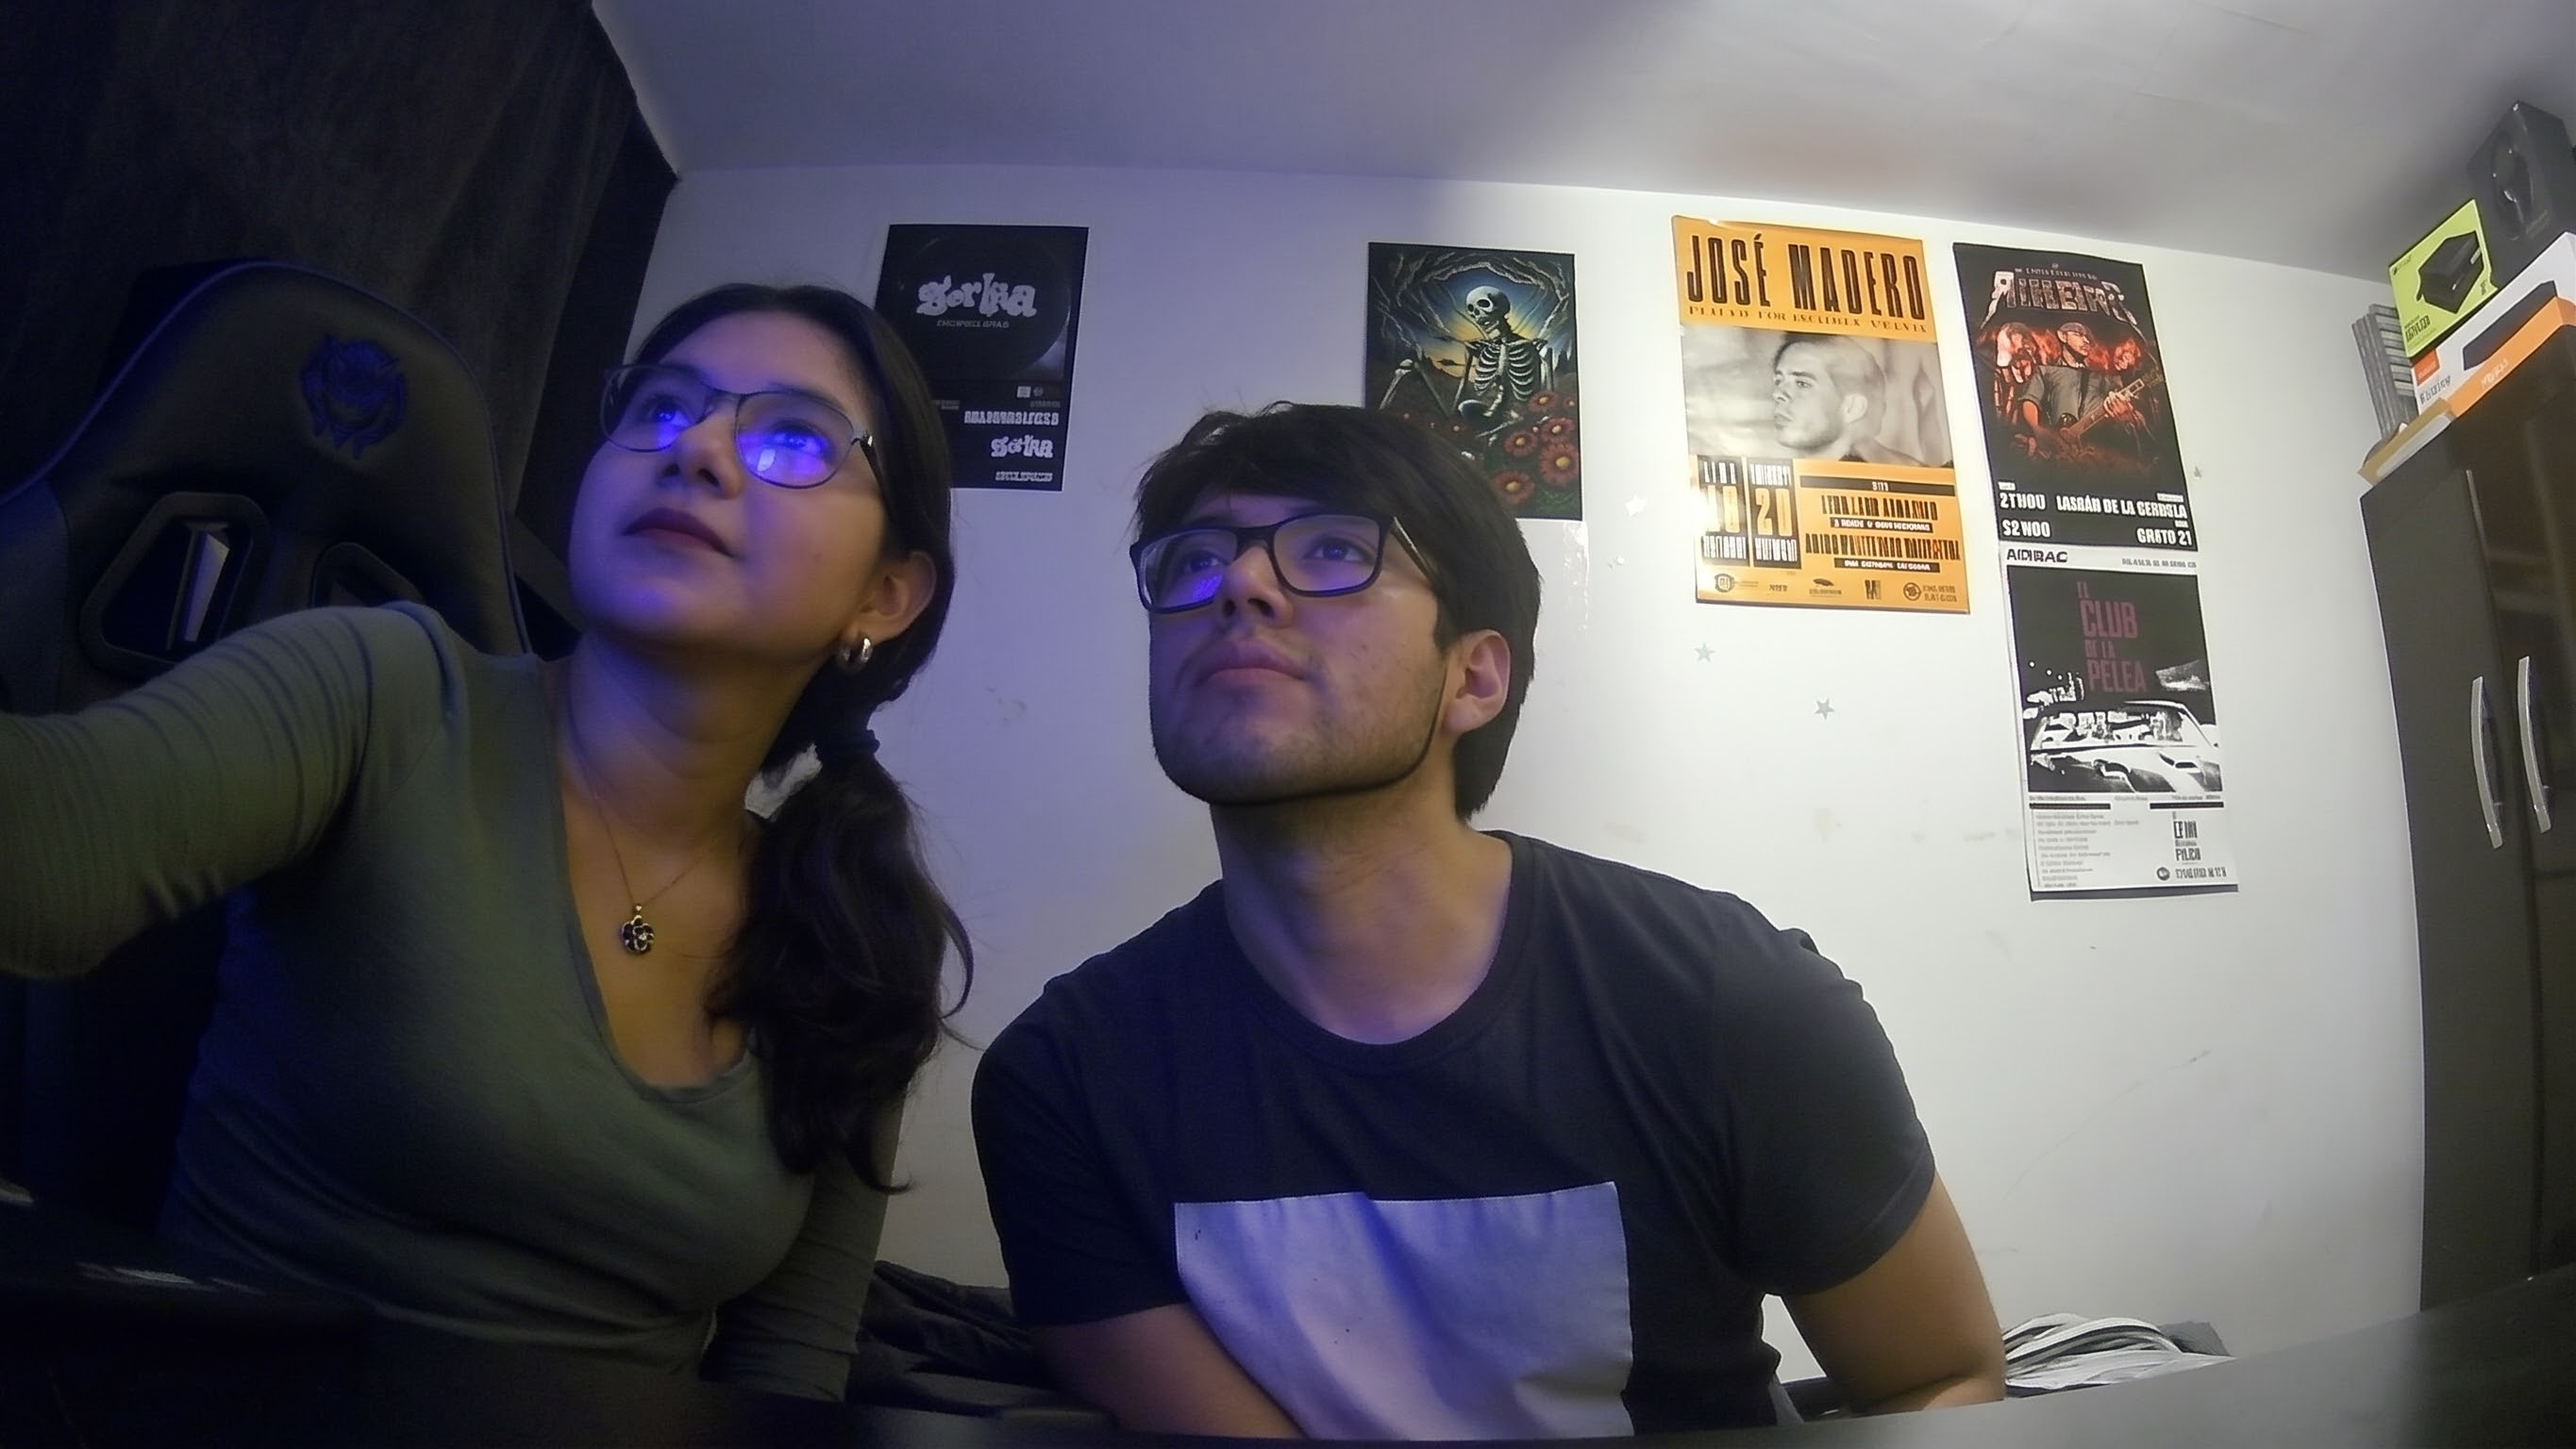
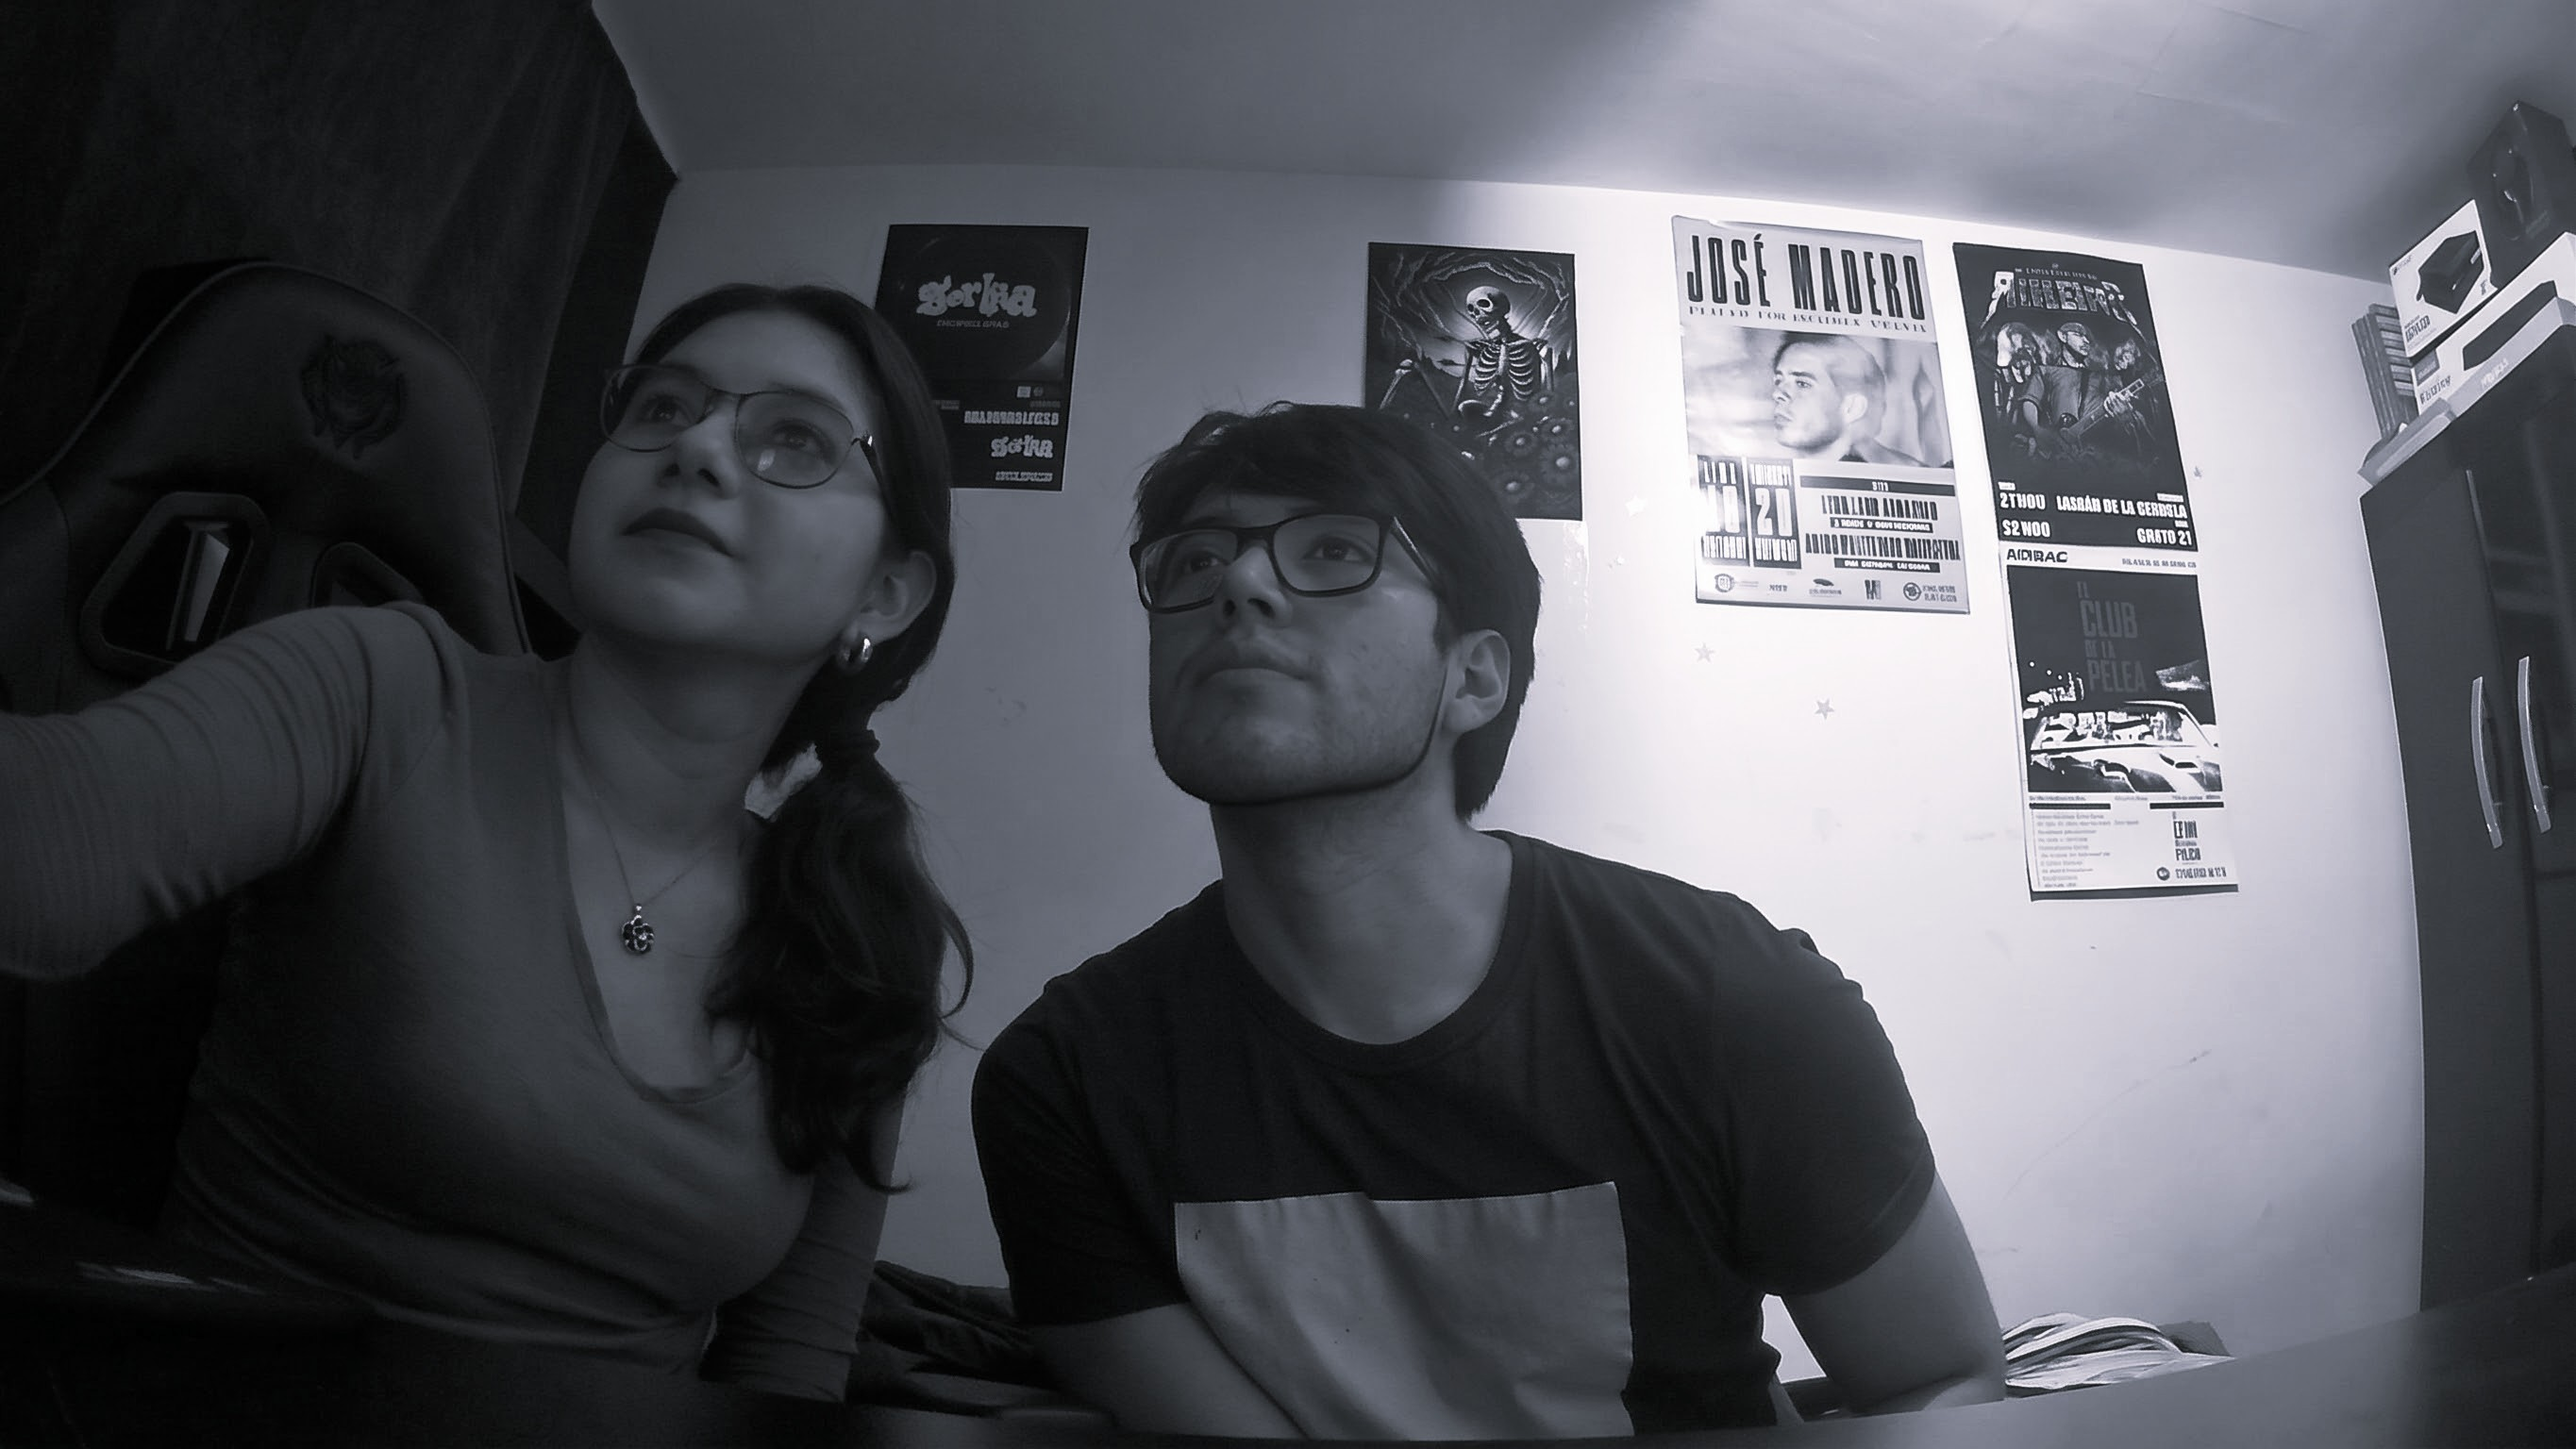
Adios Silvana

diff --git a/mensajes.html b/mensajes.html
@@ -251,17 +251,19 @@
 
       function mostrarVisto() {
         vistoEl.remove();
-        if (!lecturas || nombreInput.value !== "Rodrigo") {
+        if (!lecturas) {
           return;
         }
-        const lecturaSilvana = lecturas.Silvana;
-        if (!lecturaSilvana || !lecturaSilvana.hasta) {
+        const yo = nombreInput.value;
+        const otro = yo === "Silvana" ? "Rodrigo" : "Silvana";
+        const lecturaOtro = lecturas[otro];
+        if (!lecturaOtro || !lecturaOtro.hasta) {
           return;
         }
-        const { hasta, cuando } = lecturaSilvana;
+        const { hasta, cuando } = lecturaOtro;
         for (let i = registrosMensajes.length - 1; i >= 0; i--) {
           const registro = registrosMensajes[i];
-          if (registro.nombre === "Rodrigo" && registro.ts && registro.ts <= hasta) {
+          if (registro.nombre === yo && registro.ts && registro.ts <= hasta) {
             const hoy = claveDia(Date.now()) === claveDia(cuando || hasta);
             const momento = hoy ? formatearHora(cuando || hasta) : `${etiquetaDia(cuando || hasta)} ${formatearHora(cuando || hasta)}`;
             vistoEl.textContent = ` · Visto ${momento}`;
@@ -629,8 +631,8 @@
       font-family: 'Oswald', 'Segoe UI', sans-serif;
       color: #fff;
       background:
-        linear-gradient(rgba(20, 5, 15, 0.82), rgba(35, 8, 30, 0.9)),
-        url("img/fondo.jpg") no-repeat center center fixed;
+        linear-gradient(rgba(0, 0, 0, 0.38), rgba(0, 0, 0, 0.52)),
+        url("img/AdiosJuntos.jpg") no-repeat center center fixed;
       background-size: cover;
       overflow: hidden;
     }
@@ -642,9 +644,9 @@
       flex-direction: column;
       align-items: center;
       padding: 10px 16px 8px;
-      background: rgba(30, 8, 25, 0.75);
+      background: rgba(0, 0, 0, 0.68);
       backdrop-filter: blur(8px);
-      border-bottom: 1px solid rgba(255, 158, 187, 0.25);
+      border-bottom: 1px solid rgba(255, 255, 255, 0.16);
       box-shadow: 0 4px 18px rgba(0, 0, 0, 0.35);
       z-index: 2;
     }
@@ -655,7 +657,7 @@
       font-weight: 400;
       font-size: 2.2rem;
       line-height: 1.1;
-      background: linear-gradient(90deg, #ff9ebb, #ff4d6d);
+      background: linear-gradient(90deg, #ffffff, #bdbdbd);
       -webkit-background-clip: text;
       background-clip: text;
       color: transparent;
@@ -667,7 +669,7 @@
       gap: 10px;
       font-size: 0.85rem;
       font-weight: 300;
-      color: #ffc2d1;
+      color: #d9d9d9;
     }
 
     .avatar {
@@ -695,17 +697,17 @@
     }
 
     #chat-box::-webkit-scrollbar { width: 6px; }
-    #chat-box::-webkit-scrollbar-thumb { background: rgba(255, 77, 109, 0.6); border-radius: 6px; }
+    #chat-box::-webkit-scrollbar-thumb { background: rgba(255, 255, 255, 0.35); border-radius: 6px; }
 
     #cargar-anteriores {
       align-self: center;
       flex: none;
       margin: 0 0 8px;
       padding: 7px 16px;
-      border: 1px solid rgba(255, 158, 187, 0.35);
+      border: 1px solid rgba(255, 255, 255, 0.28);
       border-radius: 999px;
-      color: #ffc2d1;
-      background: rgba(40, 10, 32, 0.8);
+      color: #d9d9d9;
+      background: rgba(0, 0, 0, 0.7);
       font: inherit;
       cursor: pointer;
     }
@@ -722,7 +724,7 @@
       padding: 3px 14px;
       border-radius: 999px;
       background: rgba(255, 255, 255, 0.12);
-      color: #ffc2d1;
+      color: #d9d9d9;
       font-size: 0.78rem;
       font-weight: 400;
       letter-spacing: 1px;
@@ -760,17 +762,18 @@
     .silvana {
       align-self: flex-start;
       background: rgba(255, 255, 255, 0.14);
-      border: 1px solid rgba(255, 158, 187, 0.25);
+      border: 1px solid rgba(255, 255, 255, 0.16);
       border-bottom-left-radius: 4px;
     }
-    .silvana strong { color: #ffb3c6; }
+    .silvana strong { color: #ffffff; }
 
     .rodrigo {
       align-self: flex-end;
-      background: linear-gradient(135deg, #ff4d6d, #c9184a);
+      background: #f5f5f5;
+      color: #111;
       border-bottom-right-radius: 4px;
     }
-    .rodrigo strong { color: #ffe0e8; text-align: right; }
+    .rodrigo strong { color: #555; text-align: right; }
 
     .hora {
       margin-top: 2px;
@@ -795,15 +798,15 @@
 
     .reaccion {
       padding: 1px 7px;
-      border: 1px solid rgba(255, 158, 187, 0.35);
+      border: 1px solid rgba(255, 255, 255, 0.28);
       border-radius: 999px;
       color: #fff;
-      background: #3a1230;
+      background: #1c1c1c;
       font-size: 0.82rem;
       line-height: 1.5;
       box-shadow: 0 1px 4px rgba(0, 0, 0, 0.4);
     }
-    .reaccion.seleccionada { border-color: #ff9ebb; background: #7a1d45; }
+    .reaccion.seleccionada { border-color: #ffffff; background: #3a3a3a; }
 
     /* ---------- Selector flotante ---------- */
     .selector-reacciones {
@@ -815,9 +818,9 @@
       gap: 2px;
       width: min(236px, calc(100vw - 16px));
       padding: 5px 8px;
-      border: 1px solid rgba(255, 158, 187, 0.3);
+      border: 1px solid rgba(255, 255, 255, 0.22);
       border-radius: 999px;
-      background: rgba(40, 10, 32, 0.96);
+      background: rgba(12, 12, 12, 0.96);
       box-shadow: 0 6px 20px rgba(0, 0, 0, 0.5);
       animation: selector-entra 0.16s ease-out;
     }
@@ -838,7 +841,7 @@
     }
     .selector-reacciones button:hover,
     .selector-reacciones button:focus-visible { transform: scale(1.25); outline: none; }
-    .selector-reacciones button.seleccionada { background: rgba(255, 77, 109, 0.4); }
+    .selector-reacciones button.seleccionada { background: rgba(255, 255, 255, 0.22); }
 
     @keyframes selector-entra {
       from { opacity: 0; transform: translateY(6px) scale(0.9); }
@@ -863,7 +866,7 @@
       margin: 6px 0 0;
       font-family: 'Great Vibes', cursive;
       font-size: 2rem;
-      color: #ffc2d1;
+      color: #d9d9d9;
     }
     @keyframes latido { 0%,100% { transform: scale(1); } 50% { transform: scale(1.18); } }
 
@@ -874,9 +877,9 @@
       align-items: flex-end;
       gap: 8px;
       padding: 10px 10px calc(10px + env(safe-area-inset-bottom));
-      background: rgba(30, 8, 25, 0.85);
+      background: rgba(0, 0, 0, 0.78);
       backdrop-filter: blur(8px);
-      border-top: 1px solid rgba(255, 158, 187, 0.25);
+      border-top: 1px solid rgba(255, 255, 255, 0.16);
     }
 
     select, textarea {
@@ -884,7 +887,7 @@
       font-size: 16px;               /* 16px evita el zoom automatico de iOS */
       color: #fff;
       background: rgba(255, 255, 255, 0.12);
-      border: 1px solid rgba(255, 158, 187, 0.3);
+      border: 1px solid rgba(255, 255, 255, 0.22);
       border-radius: 20px;
       padding: 10px 14px;
       outline: none;
@@ -902,8 +905,8 @@
       line-height: 1.35;
     }
     textarea::placeholder { color: rgba(255, 255, 255, 0.5); }
-    textarea:focus, select:focus { border-color: #ff4d6d; box-shadow: 0 0 0 2px rgba(255, 77, 109, 0.3); }
-    textarea.error { border-color: #ff2a2a; animation: temblor 0.3s; }
+    textarea:focus, select:focus { border-color: #ffffff; box-shadow: 0 0 0 2px rgba(255, 255, 255, 0.22); }
+    textarea.error { border-color: #ffffff; animation: temblor 0.3s; }
     @keyframes temblor { 25% { transform: translateX(-4px); } 75% { transform: translateX(4px); } }
 
     button#enviar {
@@ -912,19 +915,18 @@
       height: 44px;
       border: 0;
       border-radius: 50%;
-      background: linear-gradient(135deg, #ff6b9d, #c9184a);
-      color: #fff;
+      background: #f5f5f5;
+      color: #111;
       font-size: 1.2rem;
       cursor: pointer;
-      box-shadow: 0 0 14px rgba(255, 77, 109, 0.6);
+      box-shadow: 0 0 14px rgba(255, 255, 255, 0.35);
       transition: transform 0.15s;
     }
     button#enviar:hover:not(:disabled) { transform: scale(1.1); }
     button#enviar:disabled { opacity: 0.5; cursor: default; }
 
-    /* El boton flotante "Menu" ocupa la esquina izquierda: la cabecera se desplaza. */
     @media (max-width: 520px) {
-      .cabecera { padding-left: 100px; padding-right: 12px; align-items: flex-start; }
+      .cabecera { padding-left: 16px; padding-right: 12px; align-items: flex-start; }
       .cabecera h1 { font-size: 1.9rem; }
     }
 
@@ -933,7 +935,6 @@
       #chat-box { scroll-behavior: auto; }
     }
   </style>
-  <link rel="stylesheet" href="css/nav.css">
 </head>
 <body>
 
@@ -963,6 +964,5 @@
     <button id="enviar" type="button" aria-label="Enviar">➤</button>
   </div>
 
-  <script src="js/nav.js" defer></script>
 </body>
 </html>

diff --git a/css/styles2.css b/css/styles2.css
@@ -47,7 +47,7 @@ body {
   height: 52px;
   border: none;
   border-radius: 50%;
-  background: rgba(204, 0, 0, 0.85);
+  background: rgba(0, 0, 0, 0.8);
   color: #fff;
   font-size: 22px;
   cursor: pointer;
@@ -55,6 +55,11 @@ body {
 }
 
 /* ---- Mejora visual: entrada suave y tarjeta elegante ---- */
-body { background: radial-gradient(circle at 50% 20%, #24101c, #07070e 70%); }
-.card { background: linear-gradient(160deg, #fff, #ffeef2); border: 1px solid rgba(255, 158, 187, 0.4); }
+body {
+  background:
+    linear-gradient(rgba(0, 0, 0, 0.72), rgba(0, 0, 0, 0.86)),
+    url("../img/AdiosJuntos.jpg") center center / cover no-repeat fixed;
+}
+.card { background: #ffffff; border: 1px solid rgba(0, 0, 0, 0.12); }
+.card h1 { color: #111111; }
 .card.reveal { transition-duration: 1.6s; }

diff --git a/index.html b/index.html
@@ -10,7 +10,7 @@
       display: inline-block;
       margin-top: 20px;
       padding: 10px 20px;
-      background-color: #cc0000;
+      background-color: #111111;
       color: white;
       text-decoration: none;
       border-radius: 8px;
@@ -19,7 +19,7 @@
     }
 
     .back-button:hover {
-      background-color: #990000;
+      background-color: #3a3a3a;
     }
 
     /* ---- Despedida: un ADIOS grande y limpio ---- */
@@ -35,7 +35,7 @@
       font-size: clamp(0.68rem, 2.6vw, 0.82rem);
       letter-spacing: 0.42em;
       text-transform: uppercase;
-      color: #b08a94;
+      color: #8a8a8a;
       margin: 0 0 6px;
     }
 
